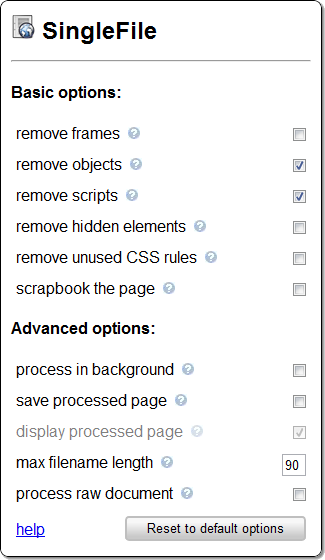
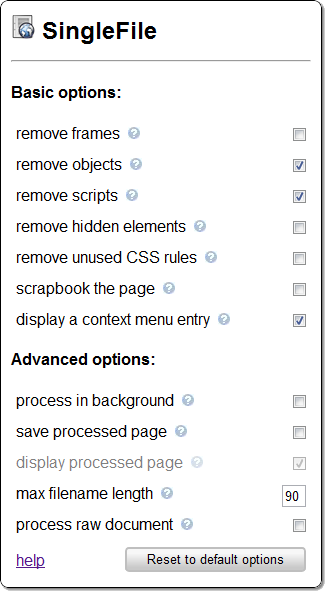
Added an option to remove menu entry

diff --git a/WebContent/ui/pages/options.html b/WebContent/ui/pages/options.html
@@ -15,7 +15,7 @@
 	<div class="option">
 		<label for="removeFramesInput">remove frames <img class="question-mark" src="../resources/icon_question_mark.jpg"></label> <input type="checkbox" id="removeFramesInput">
 		<div class="help">
-			<p>Check this option to remove all frames on the page. It may help to reduce the file size, to remove some ads and to view saved pages on IE8.</p>
+			<p>Check this option to remove all frames on the page.</p>
 			<p class="notice">It is recommended to <u>uncheck</u> this option</p>
 		</div>
 	</div>
@@ -29,23 +29,21 @@
 	<div class="option">
 		<label for="removeScriptsInput">remove scripts <img class="question-mark" src="../resources/icon_question_mark.jpg"></label> <input type="checkbox" id="removeScriptsInput">
 		<div class="help">
-			<p>Check this option if you do not want to save scripts. Most of the time, you do not need scripts in the saved page. Thus they can alter it. Nevertheless if you want to save
-			page dynamic behavior then uncheck this option. If you uncheck this option then it is strongly recommended to check "process raw document" option.</p>
+			<p>Check this option if you do not want to save scripts.</p>
 			<p class="notice">It is recommended to <u>check</u> this option</p>		
 		</div>
 	</div>
 	<div class="option">
 		<label for="removeHiddenInput">remove hidden elements <img class="question-mark" src="../resources/icon_question_mark.jpg"></label> <input type="checkbox" id="removeHiddenInput">
 		<div class="help">
-			<p>Check this option to remove all hidden elements. This option may alter the document but can considerably reduce the saved file size.</p>
+			<p>Check this option to remove all hidden elements.</p>
 			<p class="notice">It is recommended to <u>uncheck</u> this option</p>
 		</div>
 	</div>
 	<div class="option">
 		<label for="removeUnusedCSSRulesInput">remove unused CSS rules <img class="question-mark" src="../resources/icon_question_mark.jpg"></label> <input type="checkbox" id="removeUnusedCSSRulesInput">
 		<div class="help">
-			<p>Check this option to remove all CSS rules that do not match any element. This option may alter the document but can considerably reduce the saved file size. If you check
-			this option, it may also introduce some incompatibilities issues in the saved page when opening it into another browser (i.e. not based on Webkit).</p>
+			<p>Check this option to remove all CSS rules that do not match any element.</p>
 			<p class="notice">It is recommended to <u>uncheck</u> this option</p>
 		</div>
 	</div>
@@ -55,13 +53,19 @@
 			<p>Check this option to send the processed page to Scrapbook for SingleFile.</p>
 			<p class="notice">It is recommended to <u>uncheck</u> this option</p>
 		</div>
+	</div>
+	<div class="option">
+		<label for="displayInContextMenuInput">display a context menu entry <img class="question-mark" src="../resources/icon_question_mark.jpg"></label> <input type="checkbox" id="displayInContextMenuInput">
+		<div class="help">
+			<p>Check this option to launch processing on a page with context menu.</p>
+			<p class="notice">It is recommended to <u>check</u> this option</p>
+		</div>
 	</div>	
 	<h4>Advanced options:</h4>
 	<div class="option">
 		<label for="processInBackgroundInput">process in background <img class="question-mark" src="../resources/icon_question_mark.jpg"></label> <input type="checkbox" id="processInBackgroundInput">
 		<div class="help">
-			<p>Check this option to process the page in background. Processing in background means it won't be blocking (only if "display processed page" option
-			is unchecked). If you uncheck this option, a shadow will prevent you to navigate into the page during the SingleFile processing but it will be faster.</p>
+			<p>Check this option to process the page in background. Processing in background means it won't be blocking.</p>
 			<p class="notice">It is recommended to <u>uncheck</u> this option</p>		
 		</div>
 	</div>
@@ -69,16 +73,14 @@
 		<div class="option">
 			<label for="savePageInput">save processed page <img class="question-mark" src="../resources/icon_question_mark.jpg"></label> <input type="checkbox" id="savePageInput">
 			<div class="help">
-				<p>Check this option to save the processed page on filesystem. See "Saved archives folder" in help page for more details about saving folder location. If you check
-				this option you should uncheck "display processed page" option.</p>
+				<p>Check this option to save the processed page on filesystem.</p>
 				<p class="notice">It is recommended to <u>uncheck</u> this option</p>		
 			</div>
 		</div>
 		<div class="option">
 			<label for="displayProcessedPageInput">display processed page <img class="question-mark" src="../resources/icon_question_mark.jpg"></label> <input type="checkbox" id="displayProcessedPageInput">
 			<div class="help">
-				<p>Check this option to display the processed page in the tab. This option must be checked if you want to use Chrome "Save as" dialog box to save the page. If you uncheck
-				this option then you should check "process in background" else you should uncheck "process in background".</p>
+				<p>Check this option to display the processed page in the tab.</p>
 				<p class="notice">It is recommended to <u>check</u> this option</p>
 			</div>
 		</div>

diff --git a/WebContent/ui/scripts/bg/options.js b/WebContent/ui/scripts/bg/options.js
@@ -19,7 +19,7 @@
  */
 
 function load() {
-	var removeScriptsInput, removeFramesInput, removeObjectsInput, removeHiddenInput, removeUnusedCSSRulesInput, processInBackgroundInput, getRawDocInput, displayProcessedPageInput, savePageInput, getContentInput;
+	var removeScriptsInput, removeFramesInput, removeObjectsInput, removeHiddenInput, removeUnusedCSSRulesInput, processInBackgroundInput, getRawDocInput, displayProcessedPageInput, savePageInput, getContentInput, displayInContextMenu;
 	var bgPage = chrome.extension.getBackgroundPage(), config = bgPage.singlefile.config.get(), filenameMaxLengthInput, storageIsEnabled = (typeof window.requestFileSystem != "undefined" || typeof window.webkitRequestFileSystem != "undefined")
 			&& typeof ArrayBuffer != "undefined";
 
@@ -40,6 +40,7 @@ function load() {
 	removeObjectsInput = document.getElementById("removeObjectsInput");
 	removeHiddenInput = document.getElementById("removeHiddenInput");
 	removeUnusedCSSRulesInput = document.getElementById("removeUnusedCSSRulesInput");
+	displayInContextMenuInput = document.getElementById("displayInContextMenuInput");
 	processInBackgroundInput = document.getElementById("processInBackgroundInput");
 	getRawDocInput = document.getElementById("getRawDocInput");
 	displayProcessedPageInput = document.getElementById("displayProcessedPageInput");
@@ -54,6 +55,7 @@ function load() {
 			removeObjects : removeObjectsInput.checked,
 			removeHidden : removeHiddenInput.checked,
 			removeUnusedCSSRules : removeUnusedCSSRulesInput.checked,
+			displayInContextMenu : displayInContextMenuInput.checked,
 			processInBackground : processInBackgroundInput.checked,
 			getRawDoc : getRawDocInput.checked,
 			displayProcessedPage : displayProcessedPageInput.checked,
@@ -67,6 +69,7 @@ function load() {
 	removeObjectsInput.checked = config.removeObjects;
 	removeHiddenInput.checked = config.removeHidden;
 	removeUnusedCSSRulesInput.checked = config.removeUnusedCSSRules;
+	displayInContextMenuInput.checked = config.displayInContextMenu;
 	processInBackgroundInput.checked = config.processInBackground;
 	getRawDocInput.checked = config.getRawDoc;
 	displayProcessedPageInput.checked = config.displayProcessedPage;
@@ -74,6 +77,7 @@ function load() {
 	filenameMaxLengthInput.value = config.filenameMaxLength;
 	getContentInput.checked = config.getContent;
 	refresh();
+	displayInContextMenuInput.addEventListener("click", bgPage.singlefile.refreshMenu);
 	document.getElementById("resetButton").addEventListener("click", function() {
 		bgPage.singlefile.config.reset();
 		load();

diff --git a/WebContent/ui/scripts/bg/background.js b/WebContent/ui/scripts/bg/background.js
@@ -47,7 +47,7 @@
 	}
 
 	function process(tabId, url, processSelection) {
-		var SINGLE_FILE_CORE_EXT_ID = dev ? /*"oabofdibacblkhpogjinmdbcekfkikjc"*/ "onlinihoegnbbcmeeocfeplgbkmoidla" : "jemlklgaibiijojffihnhieihhagocma";
+		var SINGLE_FILE_CORE_EXT_ID = dev ? /* "oabofdibacblkhpogjinmdbcekfkikjc" */"onlinihoegnbbcmeeocfeplgbkmoidla" : "jemlklgaibiijojffihnhieihhagocma";
 		detectExtension(SINGLE_FILE_CORE_EXT_ID, function(detected) {
 			if (detected) {
 				if (processable(url)) {
@@ -125,18 +125,26 @@
 	chrome.browserAction.onClicked.addListener(function(tab) {
 		process(tab.id, tab.url);
 	});
-	chrome.contextMenus.create({
-		title : "Process page with SingleFile",
-		onclick : function(info, tab) {
-			process(tab.id, tab.url);
-		}
-	});
-	chrome.contextMenus.create({
-		contexts : [ "selection" ],
-		title : "Process selection with SingleFile",
-		onclick : function(info, tab) {
-			process(tab.id, tab.url, true);
-		}
-	});
+
+	singlefile.refreshMenu = function() {
+		if (singlefile.config.get().displayInContextMenu) {
+			chrome.contextMenus.create({
+				title : "Process page with SingleFile",
+				onclick : function(info, tab) {
+					process(tab.id, tab.url);
+				}
+			});
+			chrome.contextMenus.create({
+				contexts : [ "selection" ],
+				title : "Process selection with SingleFile",
+				onclick : function(info, tab) {
+					process(tab.id, tab.url, true);
+				}
+			});
+		} else
+			chrome.contextMenus.removeAll();
+	};
+	
+	singlefile.refreshMenu();
 
 })();

diff --git a/WebContent/ui/pages/help.html b/WebContent/ui/pages/help.html
@@ -72,6 +72,12 @@ folder</a> - <a href="#notes">Technical notes</a> - <a href="#knownIssues">Known
 		<p>Check this option to send the processed page to <a href="https://chrome.google.com/webstore/detail/ihkkeoeinpbomhnpkmmkpggkaefincbn">Scrapbook for SingleFile</a>.</p>
 		<p class="notice">It is recommended to <u>uncheck</u> this option</p>
 		</li>
+		
+		
+		<li><span class="option">display a context menu entry</span>
+		<p>Check this option to launch processing on a page with context menu.</p>
+		<p class="notice">It is recommended to <u>check</u> this option</p>
+		</li>
 
 		<li><span class="option">process in background</span>
 		<p>Check this option to process the page in background. Processing in background means it won't be blocking (only if <span class="option">display processed page</span> option

diff --git a/WebContent/ui/scripts/bg/config.js b/WebContent/ui/scripts/bg/config.js
@@ -38,7 +38,8 @@
 			savePage : false,
 			filenameMaxLength : 90,
 			getContent : false,
-			getRawDoc : false
+			getRawDoc : false,
+			displayInContextMenu : true
 		};
 	};
 
@@ -48,5 +49,15 @@
 
 	// migration 0.1 -> 0.2
 	delete localStorage.options;
+	
+	// migration 0.2.26 -> 0.2.27
+	if (localStorage.config) {
+		var conf = singlefile.config.get();
+		if (typeof conf.displayInContextMenu == "undefined") {
+			conf.displayInContextMenu = true;
+			singlefile.config.set(conf);
+		}
+			
+	}
 
 })();

diff --git a/WebContent/ui/pages/help.css b/WebContent/ui/pages/help.css
@@ -71,7 +71,7 @@ ol>li>ul>li {
 	background-image: url(../resources/options_screen.png);
 	background-repeat: no-repeat;
 	background-position: center center;
-	height: 560px;
+	height: 591px;
 }
 
 #title {
